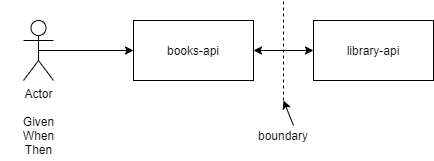
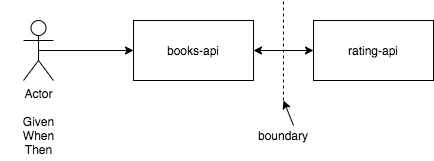
new post regarding acceptance tests

diff --git a/_posts/2020-12-08-acceptance-tests-using-cucumber-in-your-java-app.md b/_posts/2020-12-08-acceptance-tests-using-cucumber-in-your-java-app.md
@@ -1,13 +1,20 @@
 ---
 layout: single
-title: "Acceptance tests using cucumber in your Java application"
-date: 2020-11-22 12:08:53 +0200
+title: "Acceptance tests using cucumber in Java applications"
+date: 2020-12-8 12:08:53 +0200
 categories: development
 comments: true
 lang: en
 tags: mocks, testing
-image: images/
+image: images/acceptance-tests.jpg
 ---
+
+{:refdef: style="text-align: center;"}
+![dist files]({{ site.baseurl }}/images/acceptance-tests.jpg)
+<span>Photo by <a href="https://unsplash.com/@scienceinhd?utm_source=unsplash&amp;utm_medium=referral&amp;utm_content=creditCopyText">Science in HD</a> on <a href="https://unsplash.com/s/photos/tests?utm_source=unsplash&amp;utm_medium=referral&amp;utm_content=creditCopyText">Unsplash</a></span>
+{: refdef}
+
+In the same way that vaccines have to be tested before the rollout to the world population, we need to test our software before releasing it also to our customers. Today the first <a href="https://www.theguardian.com/world/2020/dec/08/coventry-woman-90-first-patient-to-receive-covid-vaccine-in-nhs-campaign">woman</a> received the Faizer vaccine and before this, several protocols have been executed before today's event. Software engineering it's a science (<a href="https://en.wikipedia.org/wiki/Computer_science">Computer science</a>) and because of that we need procedures to ensure that our software is doing what is expected.   
 
 Behavior-driven development
 -------------------------------
@@ -53,14 +60,16 @@ Group of tests to validate the books-api behavior
 
 Developers that need to retrieve booking data will benefit from the books-api operations
 
-Given a book with id 1 in our store
+Scenario: Validate that we can read an existing book 
 
-When a request is done to our books-api with an id 1
+Given a book with uuid 123e4567-e89b-12d3-a456-426614174000 in our store
 
-Then the books-api returns a book with id 1
+When a request is done to our books-api with an uuid 123e4567-e89b-12d3-a456-426614174000
+
+Then the books-api returns a book with uuid 123e4567-e89b-12d3-a456-426614174000
 ```
 
-each one of these sentences needs to be defined inside the parenthesis in an annotation 
+each one of these sentences needs to be defined in the glue code that interacts directly with our application. In this particular case `BooksApiSteps` class is where we have placed our sentences.
 
 ```java
 
@@ -76,18 +85,18 @@ public BooksApiSteps(BooksApiService booksApiService){
     this.booksApiService = booksApiService;
 }
 
-@Given("a book with id $1 in our store")
+@Given("a book with id (.*)$ in our store")
 public void createABookGivenAnId(String uuid) {
-    bookCreated = new BookingBuilder.withId(uuid).build(new Random());
+    bookCreated = new BookingBuilder.withUuid(uuid).build(new Random());
     booksApiService.create(bookCreated);
 }
     
-@When("a request is done to our books-api with id $1")
+@When("a request is done to our books-api with id (.*)$")
 public void aRequestIsDoneToRetrieveABook(String uuid) {
     bookRetrieved = booksApiService.getBookById(uuid);
 }
 
-@Then("the books-api returns a book with id $1")
+@Then("the books-api returns a book with id (.*)$")
 public void validateTheResponse(String uuid) {
     assertEquals(bookCreated, bookRetrieved);
     assertEquals(uuid, bookRetrieved.getUuid());
@@ -117,58 +126,42 @@ To have deterministic tests that don't fail randomly and that test only your cod
 Typically what you can do in services that are defined by contracts is to create a particular implementation for the contract that you control and that you know what this implementation is going to return.
 
 ```java
-public interface LibraryService {
-    Book findBookById(long id); 
+public interface RatingService {
+    Integer getBookingRating(String uuid); 
 }  
 
-public class LibraryServiceMock implements LibraryService {
+public class RatingServiceMock implements RatingService {
 
-    Book findBookById(long id) {
-        return new Book();
+    Integer getBookingRating(String uuid) {
+       //return a value
     } 
 }
 
 ```
 
-Boot a server with your mock
-------------------------------------
-
-Given the previous mock of `LibraryService` it would be good to use it in a lightweight application server like <a href="https://www.eclipse.org/jetty/">Jetty</a>
-
-```java
-import com.sun.net.httpserver.HttpServer;
-import org.apache.log4j.Logger;
-import org.eclipse.jetty.server.Handler;
-import org.eclipse.jetty.server.NetworkTrafficServerConnector;
-import org.eclipse.jetty.server.handler.ContextHandlerCollection;
-import org.eclipse.jetty.server.handler.HandlerList;
-
-private final NetworkTrafficServerConnector connector;
-private final ContextHandlerCollection contextHandlerCollection;
-
-JettyServer(int portNumber, boolean listenInAllInterfaces) {
-   final org.eclipse.jetty.server.Server server = new org.eclipse.jetty.server.Server();
-   connector = new NetworkTrafficServerConnector(server);
-   connector.setHost(listenInAllInterfaces ? "0.0.0.0" : "localhost");
-   connector.setPort(portNumber);
-   connector.setIdleTimeout(30000);
-   server.addConnector(connector);
-   HandlerList handlers = new HandlerList();
-   WsGzipHandler wsGzipHandler = new WsGzipHandler();
-   contextHandlerCollection = new ContextHandlerCollection();
-   wsGzipHandler.setHandler(contextHandlerCollection);
-   handlers.addHandler(wsGzipHandler);
-   // Needed by Jetty to publish endpoints
-   handlers.addHandler(contextHandlerCollection); 
-   server.setHandler(handlers);
-}
-```
-This way every time that we call the endpoint `findBookById` we will receive the object that we have set in our `BooksApiSteps`
-
-
 Randomize your inputs 
 -------------------------------
-If you are always sending the same request to the system that you are doing the acceptance test is possible that you always test the same behavior. For that, a good practice is to randomize the inputs that you do to your services to ensure that there's no corner case that you have not considered.
+If your are always sending the same request to the system that you are testing it's possible that you always test the same behavior. In this case the `BookingBuilder` has different attributes as we can see in the following `builder`.
+
+```java
+new BookingBuilder.
+      withUuid(uuid).
+      withGenre(genre).
+      withDatePublished(date).
+      withAuthor(author).
+      withStars(stars).
+      withComments(comments).
+      withPrice(price).
+      build();
+```
+
+A good practice here would be to randomize the inputs that you do to your services to ensure that there's no corner case that you have not considered. It would be good to provide a constructor in your builder that allows creating objects with random fields. 
+
+```java
+new BookingBuilder.
+      build(new Random());
+```
+This way you will have books with different types of genres, stars, price ... that should not affect the result of the test execution. 
 
 
 Conclusion
